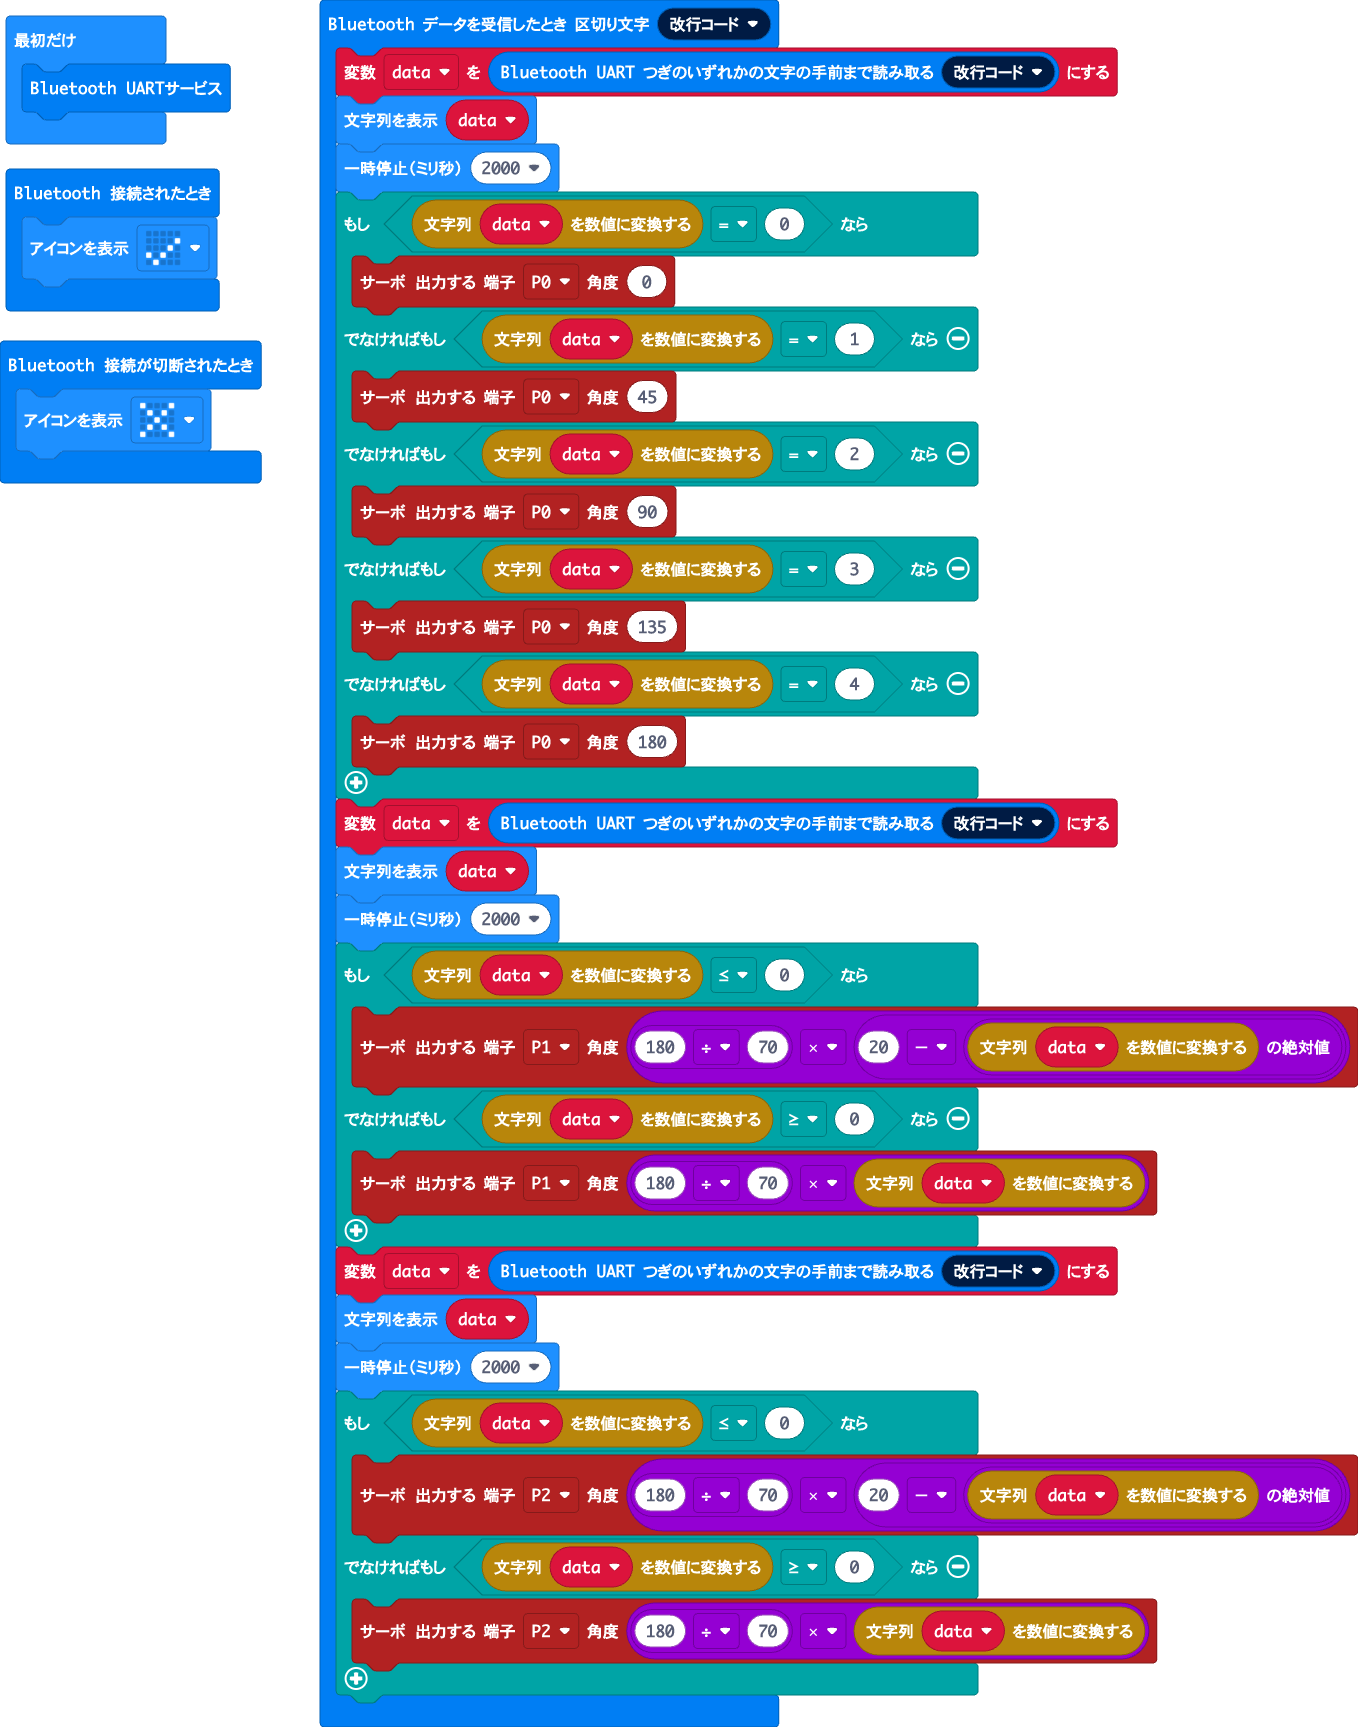
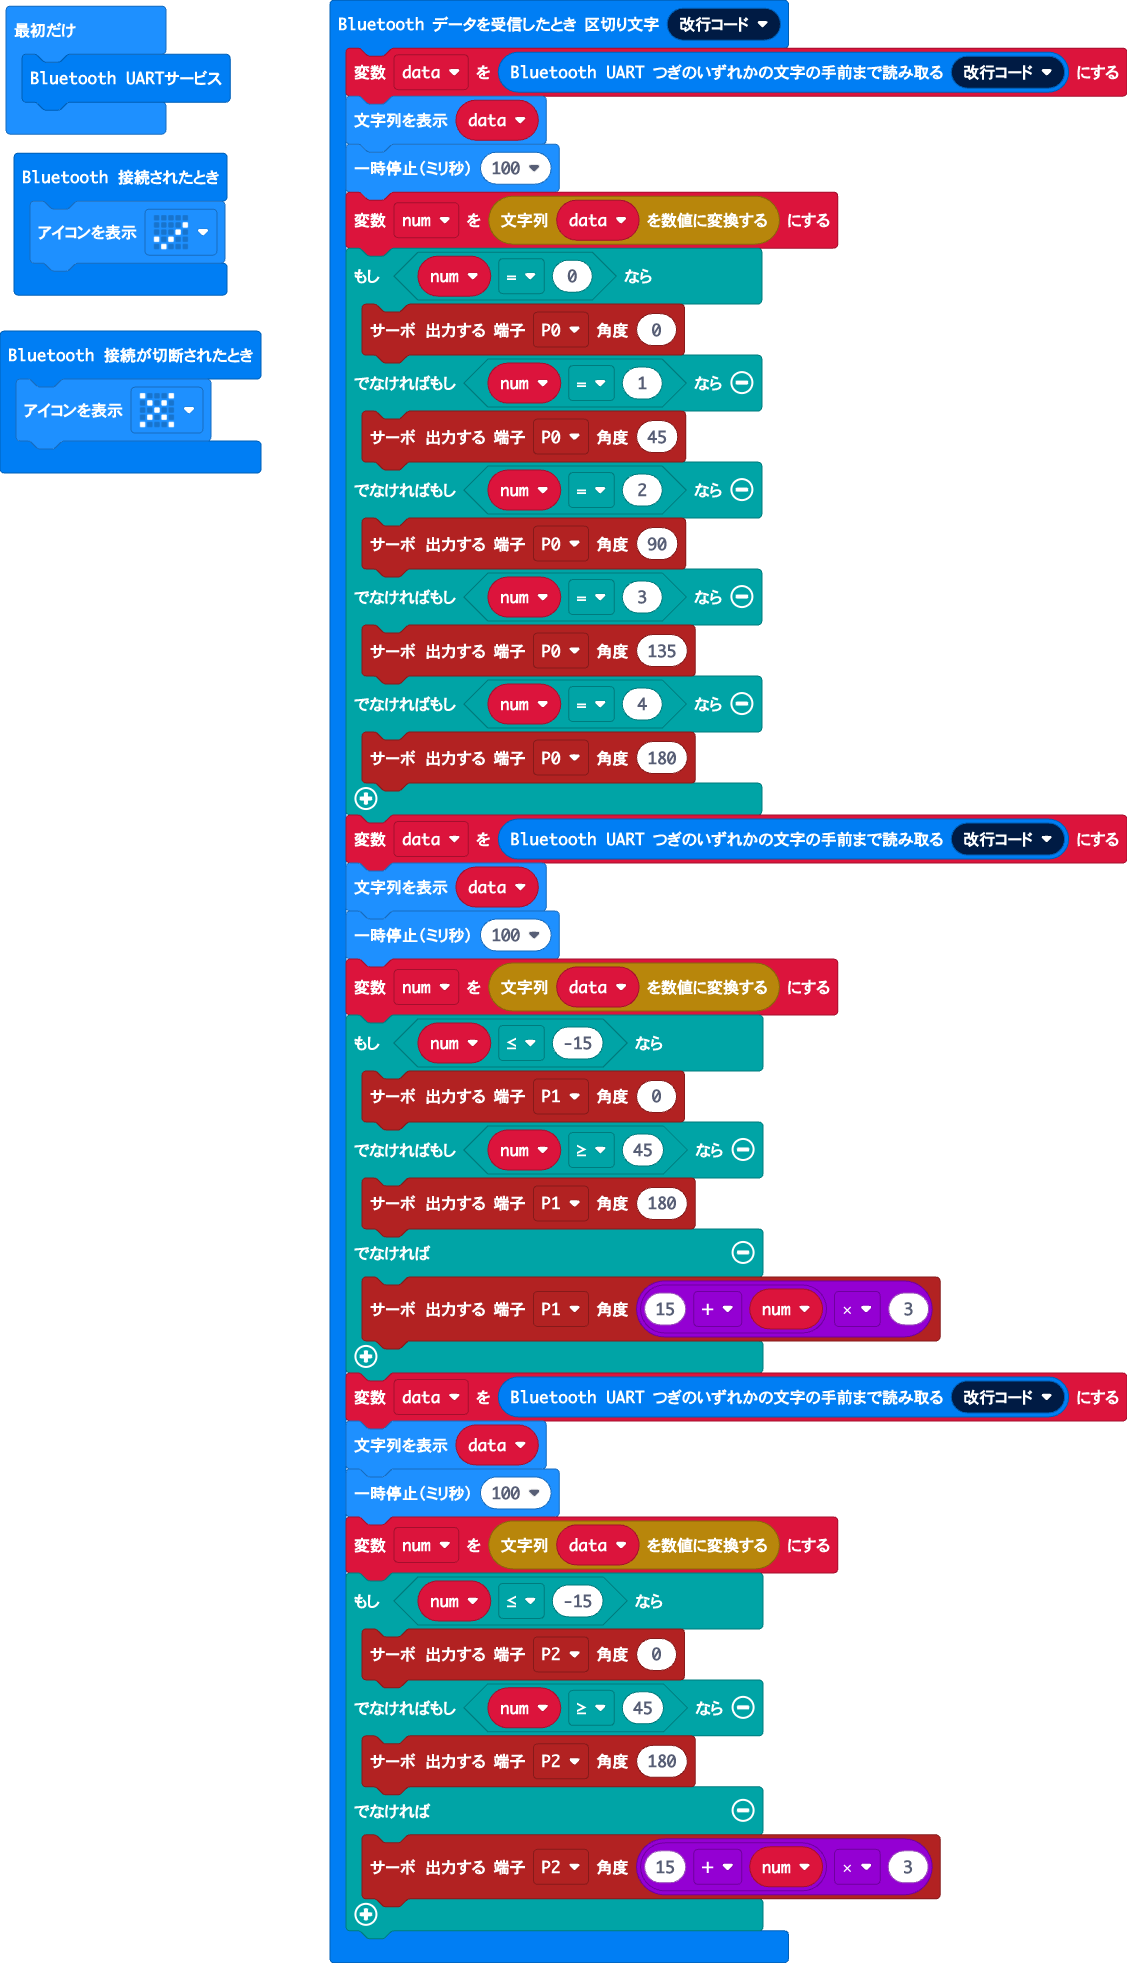
更新 main.blocks, main.ts

diff --git a/main.ts b/main.ts
@@ -7,34 +7,42 @@ bluetooth.onBluetoothDisconnected(function () {
 bluetooth.onUartDataReceived(serial.delimiters(Delimiters.NewLine), function () {
     data = bluetooth.uartReadUntil(serial.delimiters(Delimiters.NewLine))
     basic.showString(data)
-    basic.pause(2000)
-    if (parseFloat(data) == 0) {
+    basic.pause(100)
+    num = parseFloat(data)
+    if (num == 0) {
         pins.servoWritePin(AnalogPin.P0, 0)
-    } else if (parseFloat(data) == 1) {
+    } else if (num == 1) {
         pins.servoWritePin(AnalogPin.P0, 45)
-    } else if (parseFloat(data) == 2) {
+    } else if (num == 2) {
         pins.servoWritePin(AnalogPin.P0, 90)
-    } else if (parseFloat(data) == 3) {
+    } else if (num == 3) {
         pins.servoWritePin(AnalogPin.P0, 135)
-    } else if (parseFloat(data) == 4) {
+    } else if (num == 4) {
         pins.servoWritePin(AnalogPin.P0, 180)
     }
     data = bluetooth.uartReadUntil(serial.delimiters(Delimiters.NewLine))
     basic.showString(data)
-    basic.pause(2000)
-    if (parseFloat(data) <= 0) {
-        pins.servoWritePin(AnalogPin.P1, 180 / 70 * (20 - Math.abs(parseFloat(data))))
-    } else if (parseFloat(data) >= 0) {
-        pins.servoWritePin(AnalogPin.P1, 180 / 70 * parseFloat(data))
+    basic.pause(100)
+    num = parseFloat(data)
+    if (num <= -15) {
+        pins.servoWritePin(AnalogPin.P1, 0)
+    } else if (num >= 45) {
+        pins.servoWritePin(AnalogPin.P1, 180)
+    } else {
+        pins.servoWritePin(AnalogPin.P1, (15 + num) * 3)
     }
     data = bluetooth.uartReadUntil(serial.delimiters(Delimiters.NewLine))
     basic.showString(data)
-    basic.pause(2000)
-    if (parseFloat(data) <= 0) {
-        pins.servoWritePin(AnalogPin.P2, 180 / 70 * (20 - Math.abs(parseFloat(data))))
-    } else if (parseFloat(data) >= 0) {
-        pins.servoWritePin(AnalogPin.P2, 180 / 70 * parseFloat(data))
+    basic.pause(100)
+    num = parseFloat(data)
+    if (num <= -15) {
+        pins.servoWritePin(AnalogPin.P2, 0)
+    } else if (num >= 45) {
+        pins.servoWritePin(AnalogPin.P2, 180)
+    } else {
+        pins.servoWritePin(AnalogPin.P2, (15 + num) * 3)
     }
 })
+let num = 0
 let data = ""
 bluetooth.startUartService()
